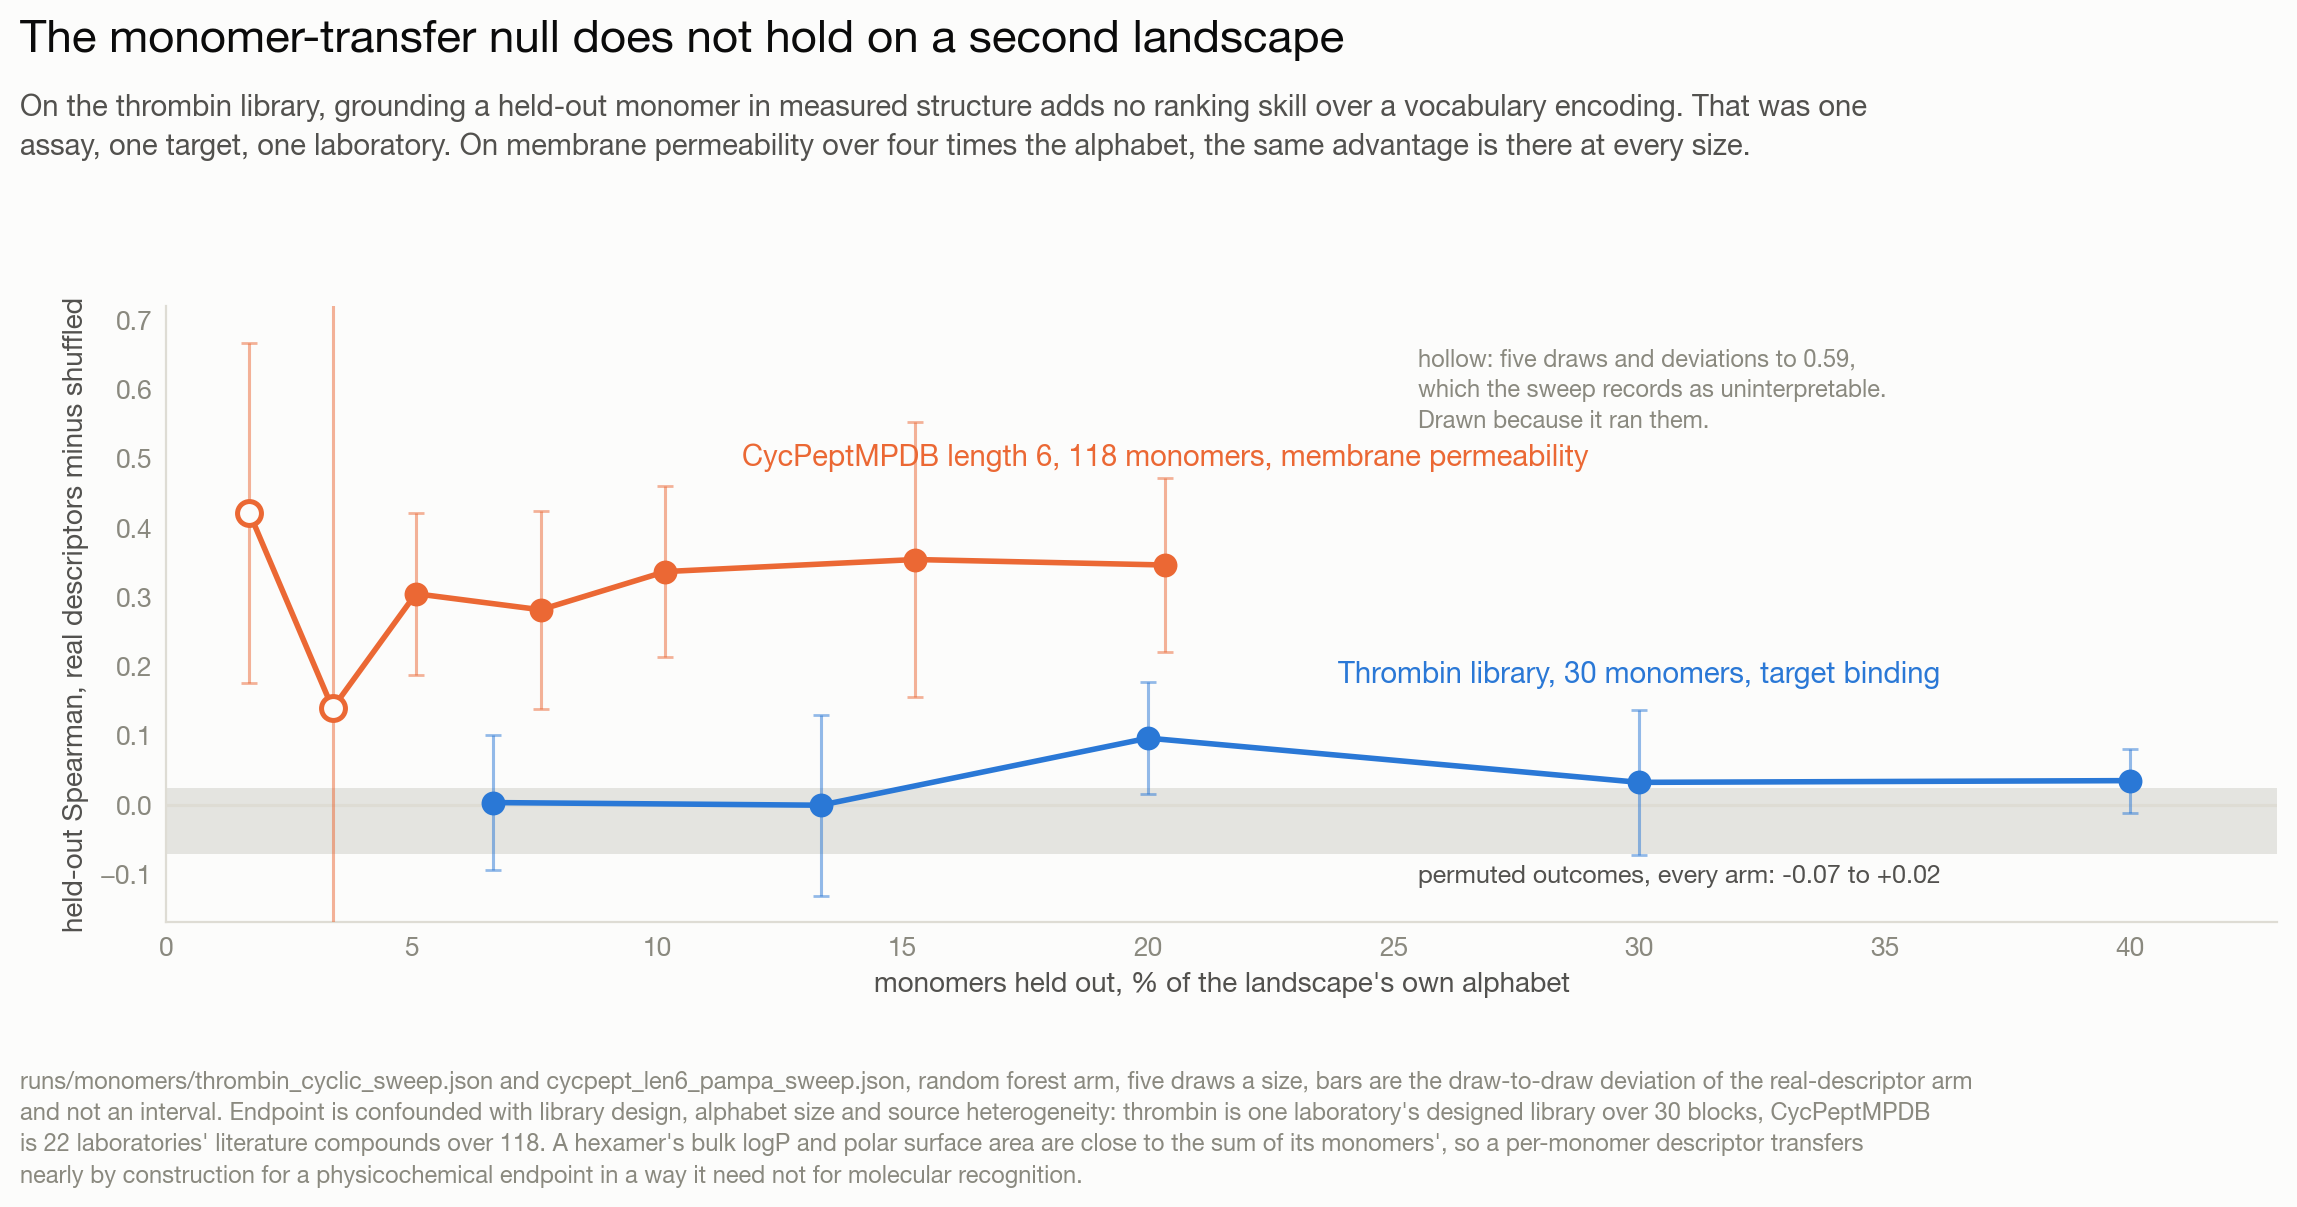
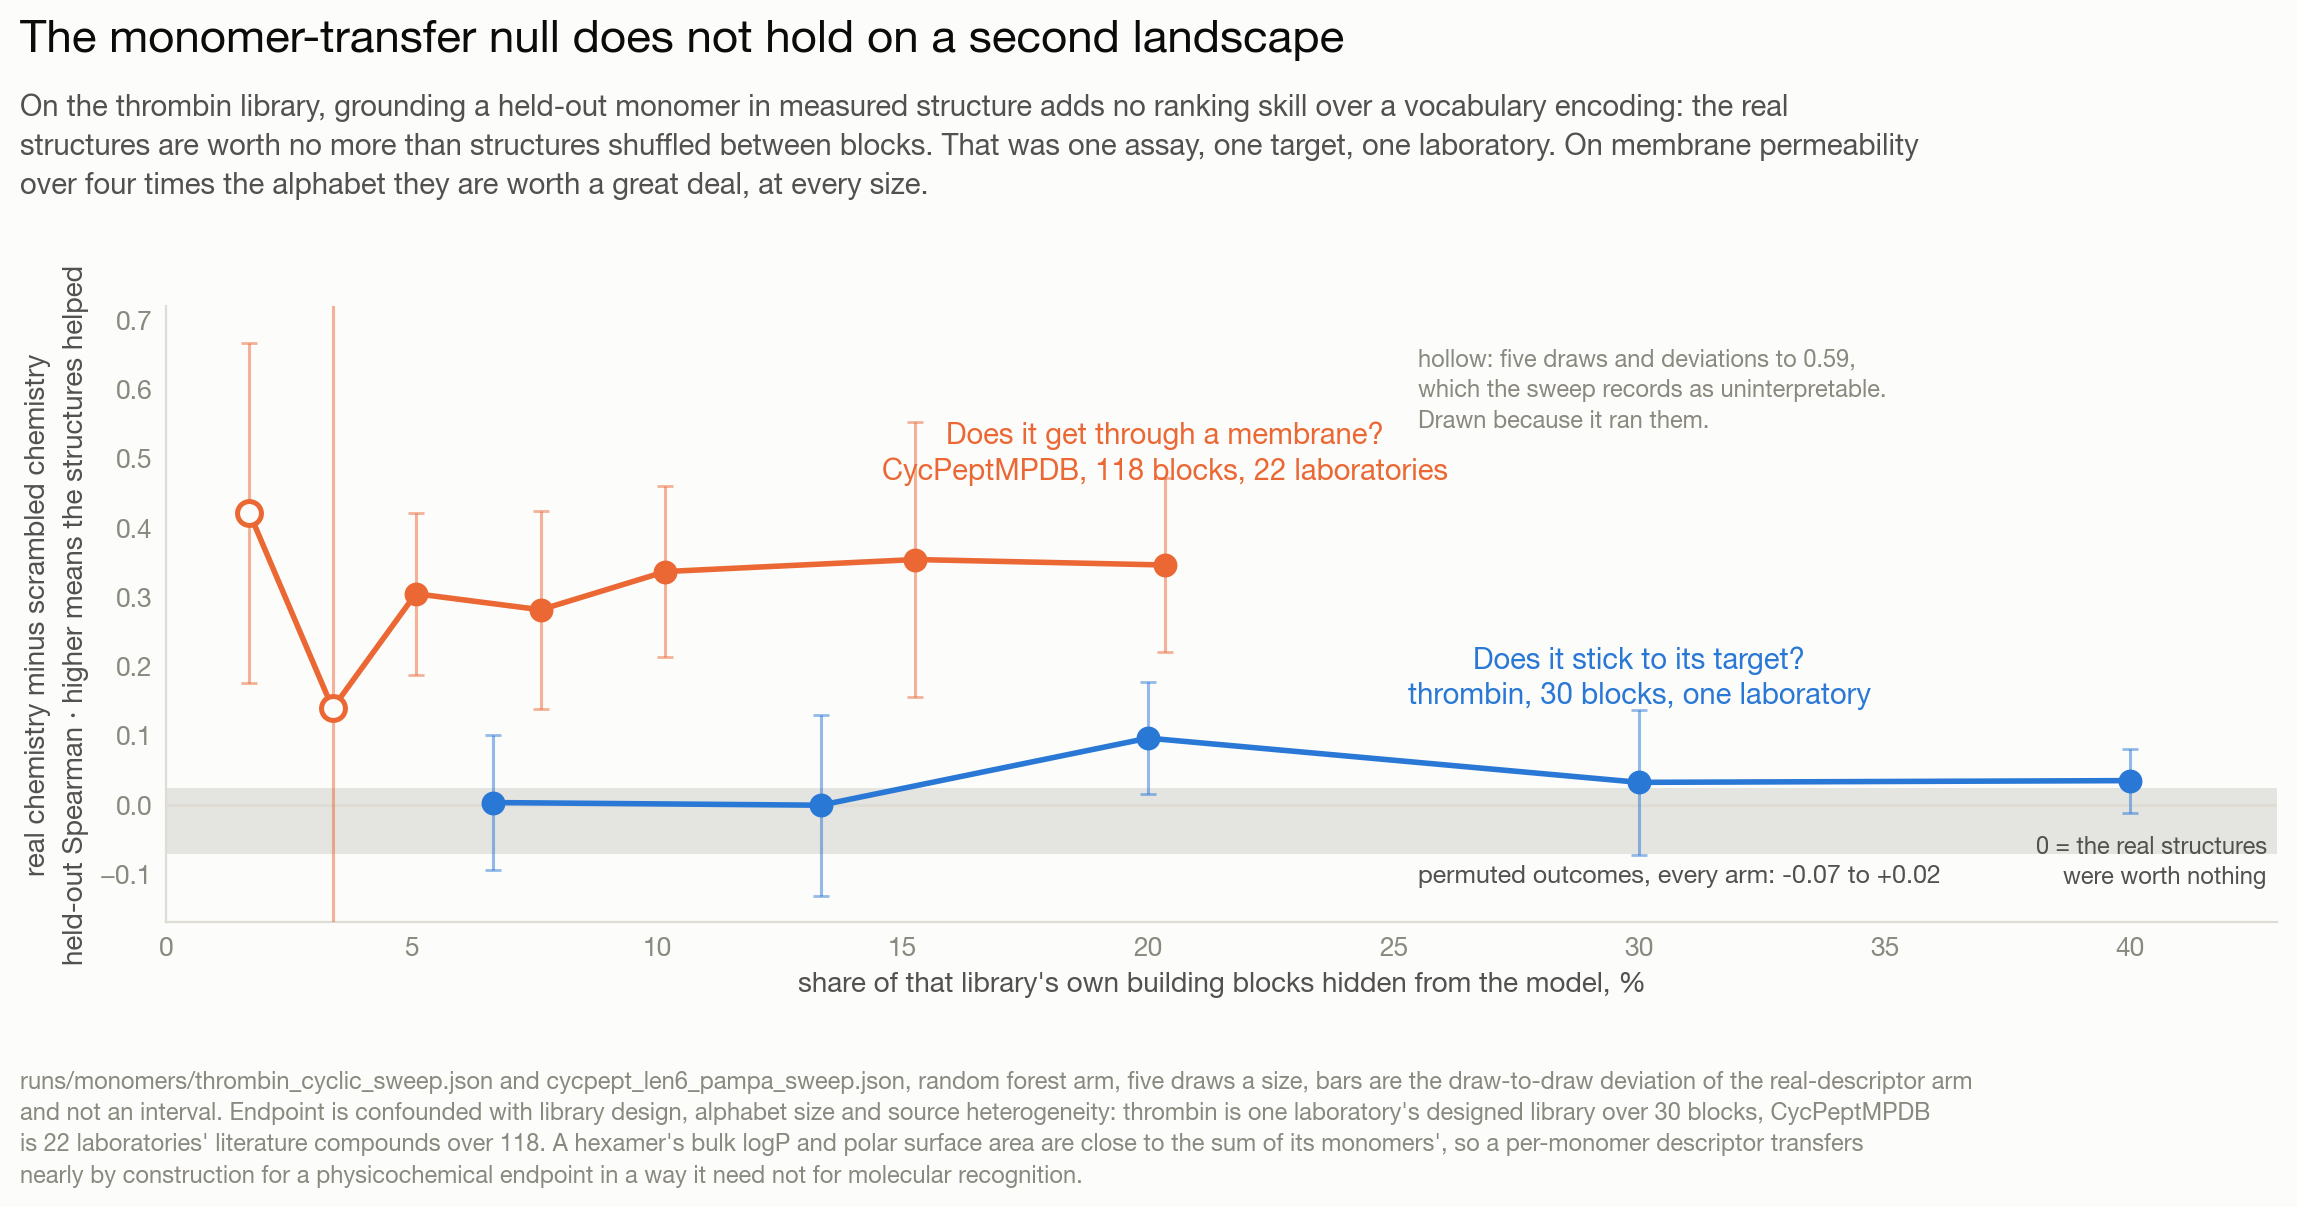
Say what the transfer figure's axis means, instead of naming the statistic
The y quantity carries the whole argument and was labelled as the statistic it is computed
from: "held-out Spearman, real descriptors minus shuffled". A reader who does not already
know the experiment cannot tell from that which direction is good, or that zero is the claim
being tested rather than a convenience of the axis. Three changes, no number touched.

The axis label now says what the quantity means and which way is better. The two series carry
the question each library answers -- does it stick to its target, does it get through a
membrane -- above the library's own name, so the comparison the figure exists to make is
readable before the legend is. And the zero band is labelled where it sits: the real
structures were worth nothing.

A direction arrow in the left margin was the first attempt and is not in this commit. Every
position where it was legible collided with either the axis label or the tick numbers, so the
direction went into the label instead, which needs no space of its own.

The same figure is redrawn on the status page from the same records, as grouped dot rows
rather than a line, which reads better at a glance: two clusters, one at zero and one at
+0.3, with each library's verdict beside its heading.

diff --git a/output/build_result_figures.py b/output/build_result_figures.py
@@ -68,13 +68,13 @@ ALPHABET = {"thrombin_cyclic": 30, "cycpept_len6_pampa": 118}
 # wrote them and a reader should see what was excluded.
 UNDERPOWERED = {"cycpept_len6_pampa": (2, 4)}
 
-LABEL = {"thrombin_cyclic": "Thrombin library, 30 monomers, target binding",
-         "cycpept_len6_pampa": "CycPeptMPDB length 6, 118 monomers, membrane permeability"}
+LABEL = {"thrombin_cyclic": "Does it stick to its target?\nthrombin, 30 blocks, one laboratory",
+         "cycpept_len6_pampa": "Does it get through a membrane?\nCycPeptMPDB, 118 blocks, 22 laboratories"}
 
 # Where each line carries its own name: the point to anchor on, how far off the line, and
 # which side. Direct labels rather than a legend box, so identity is never a colour lookup.
-ANCHOR = {"thrombin_cyclic": (3, 0.135, "bottom"),
-          "cycpept_len6_pampa": (6, 0.135, "bottom")}
+ANCHOR = {"thrombin_cyclic": (3, 0.105, "bottom"),
+          "cycpept_len6_pampa": (6, 0.115, "bottom")}
 
 
 def style(mode):
@@ -504,10 +504,17 @@ def figure_transfer(c, mode):
                 "uninterpretable.\nDrawn because it ran them.",
                 (25.5, 0.66), ha="left", va="top", fontsize=8.5, color=c["muted"],
                 linespacing=1.45)
-    ax.set_xlabel("monomers held out, % of the landscape's own alphabet", fontsize=10,
-                  color=c["secondary"])
-    ax.set_ylabel("held-out Spearman, real descriptors minus shuffled", fontsize=10,
-                  color=c["secondary"])
+    ax.set_xlabel("share of that library's own building blocks hidden from the model, %",
+                  fontsize=10, color=c["secondary"])
+    # The y quantity is the whole argument and reads as an abstraction without the direction
+    # said out loud. It goes in the axis label rather than in a margin arrow, which collided
+    # with the label and the tick numbers at every position that was also legible.
+    ax.set_ylabel("real chemistry minus scrambled chemistry\n"
+                  "held-out Spearman · higher means the structures helped",
+                  fontsize=10, color=c["secondary"], linespacing=1.6)
+    ax.annotate("0 = the real structures\nwere worth nothing", (0.995, 0.055),
+                xycoords="axes fraction", ha="right", va="bottom", fontsize=8.5,
+                color=c["secondary"], linespacing=1.4)
     ax.set_xlim(0, 43)
     ax.set_ylim(-0.17, 0.72)
 
@@ -515,9 +522,10 @@ def figure_transfer(c, mode):
         fig, c,
         "The monomer-transfer null does not hold on a second landscape",
         "On the thrombin library, grounding a held-out monomer in measured structure adds no "
-        "ranking skill over a vocabulary encoding. That was one assay, one target, one "
-        "laboratory. On membrane permeability over four times the alphabet, the same "
-        "advantage is there at every size.",
+        "ranking skill over a vocabulary encoding: the real structures are worth no more "
+        "than structures shuffled between blocks. That was one assay, one target, one "
+        "laboratory. On membrane permeability over four times the alphabet they are worth a "
+        "great deal, at every size.",
         "runs/monomers/thrombin_cyclic_sweep.json and cycpept_len6_pampa_sweep.json, random "
         "forest arm, five draws a size, bars are the draw-to-draw deviation of the "
         "real-descriptor arm and not an interval. Endpoint is confounded with library "
